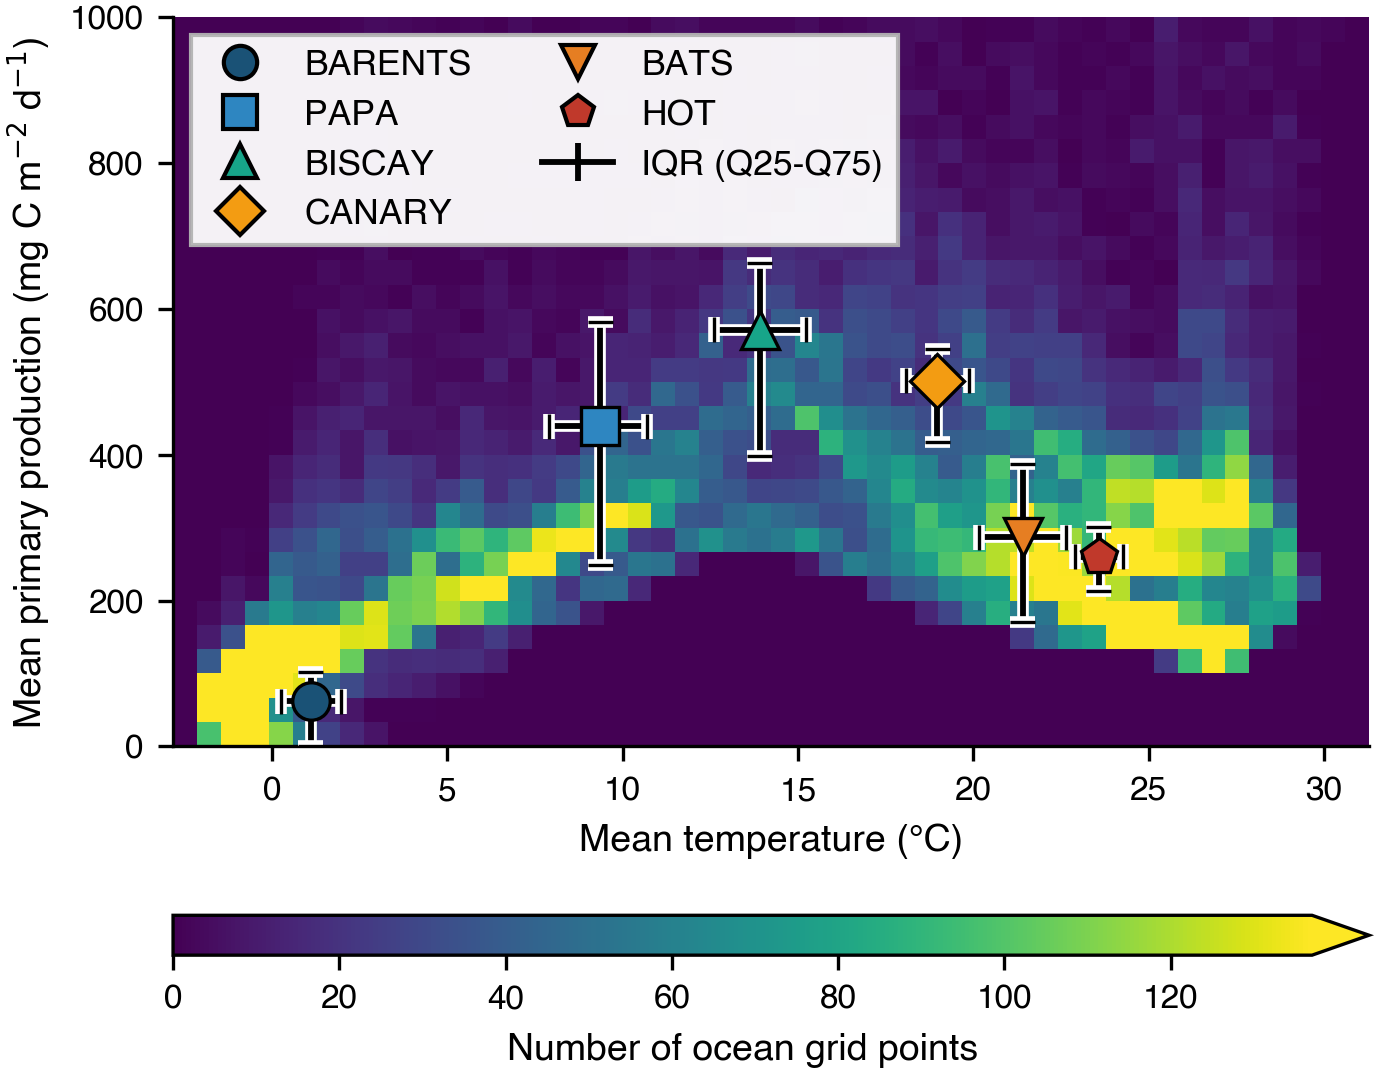
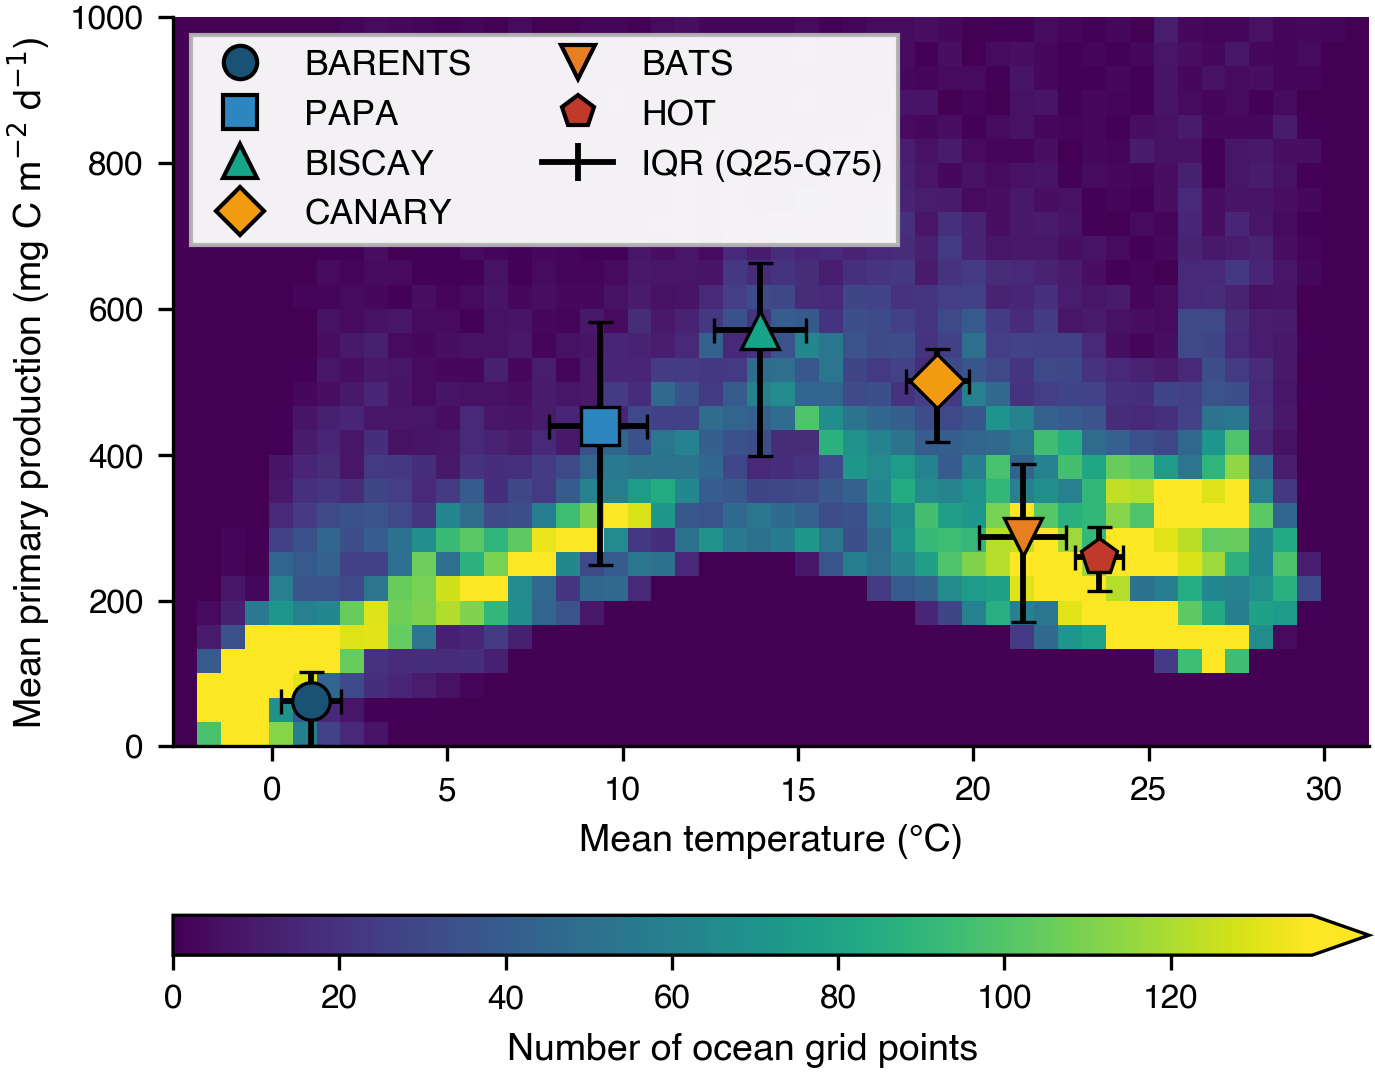
Figure 2: drop the white halo on the IQR error bars (plain black, as in the manuscript)

diff --git a/scripts/figures/fig02_stations_distribution.py b/scripts/figures/fig02_stations_distribution.py
@@ -12,7 +12,6 @@ Run    : .venv/bin/python scripts/figures/fig02_stations_distribution.py
 """
 from __future__ import annotations
 
-import matplotlib.patheffects as pe
 import matplotlib.pyplot as plt
 import numpy as np
 import pandas as pd
@@ -65,18 +64,13 @@ cbar.set_label("Number of ocean grid points")
 
 for sid in STATIONS:
     s = rows[sid]
-    eb = ax.errorbar(
+    ax.errorbar(
         s["temp_mean"], s["npp_mean"],
         xerr=[[s["temp_mean"] - s["temp_q25"]], [s["temp_q75"] - s["temp_mean"]]],
         yerr=[[s["npp_mean"] - s["npp_q25"]], [s["npp_q75"] - s["npp_mean"]]],
         fmt=fs.marker(sid), color=fs.color(sid), markersize=9, capsize=3, capthick=1.4,
         elinewidth=1.4, ecolor="black", markeredgecolor="black", markeredgewidth=0.8, zorder=6,
     )
-    halo = [pe.withStroke(linewidth=2.8, foreground="white")]   # white halo -> legible over the scatter
-    for ln in eb[1]:        # cap lines
-        ln.set_path_effects(halo)
-    for lc in eb[2]:        # bar line collections
-        lc.set_path_effects(halo)
 
 handles = [Line2D([0], [0], marker=fs.marker(sid), color="none", markerfacecolor=fs.color(sid),
                   markeredgecolor="black", markersize=8, linestyle="None", label=fs.label(sid))
